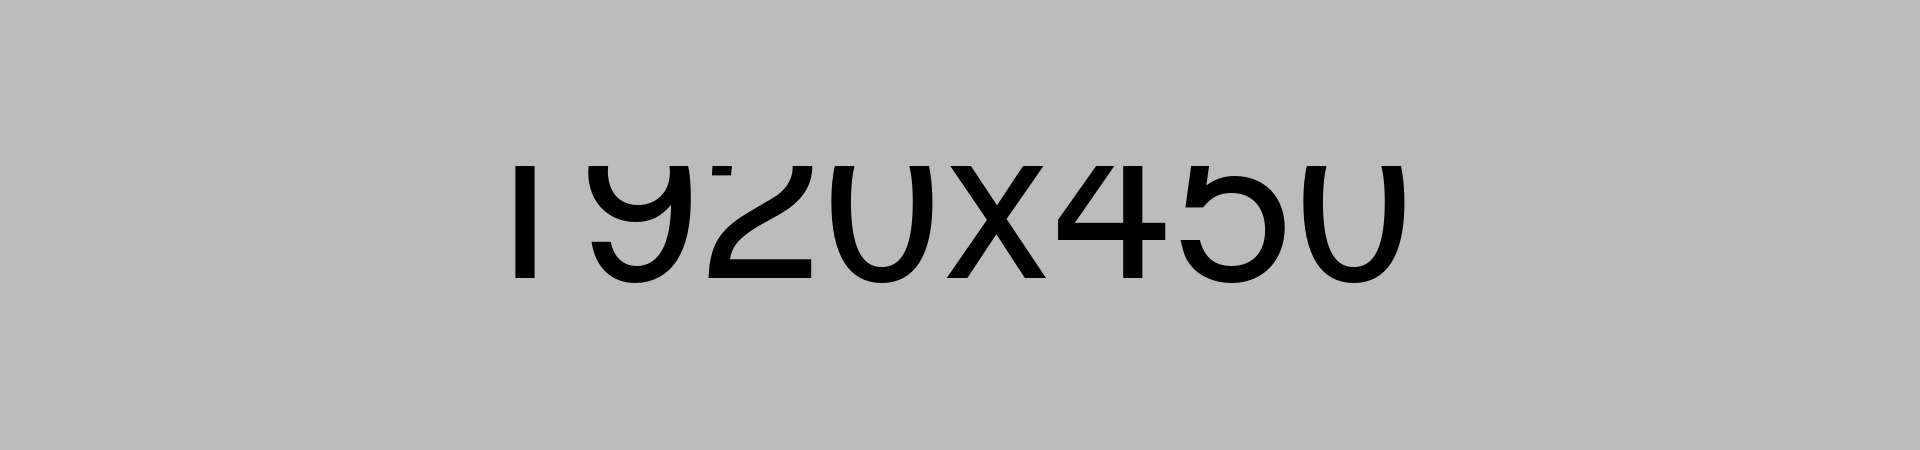
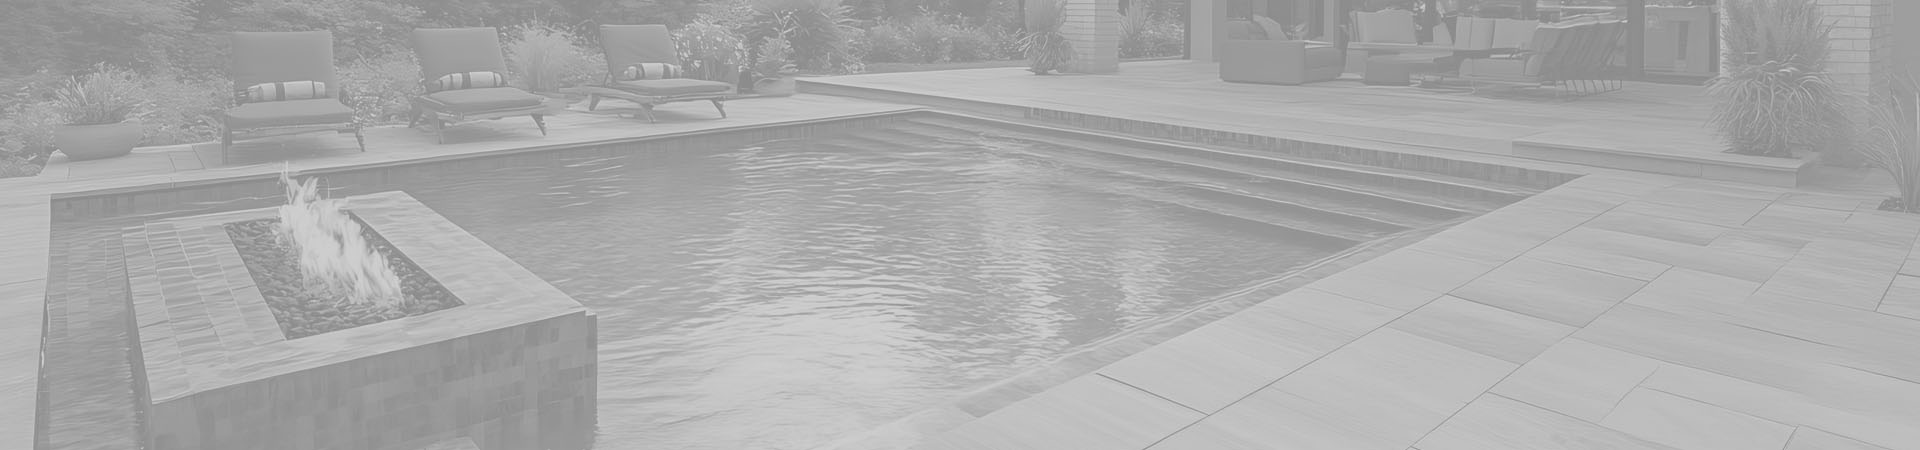
Titles

diff --git a/assets/css/style.css b/assets/css/style.css
@@ -4892,7 +4892,7 @@ div#mCSB_1_container{
   height: 100%;
   left: 0px;
   top: 0px;
-  background: linear-gradient(180deg, #000000 15.56%, rgba(0, 0, 0, 0) 100%);
+  background: linear-gradient(180deg, #fff 15.56%, rgba(0, 0, 0, 0) 100%);
 }
 
 .page-title .content-box h2{
@@ -4900,7 +4900,7 @@ div#mCSB_1_container{
   display: block;
   font-size: 60px;
   line-height: 70px;
-  color: #fff;
+  color: var(--brand-color);
   font-weight: 700;
   margin-bottom: 10px;
 }

diff --git a/events.php b/events.php
@@ -7,7 +7,7 @@
 <meta http-equiv="X-UA-Compatible" content="IE=edge">
 <meta name="viewport" content="width=device-width, initial-scale=1.0, maximum-scale=1.0, user-scalable=0">
 
-<title>Ticrou - HTML 5 Template Preview</title>
+<title>Event Types - <?= site_esc($site_name); ?></title>
 
 <!-- Fav Icon -->
 <link rel="icon" href="assets/images/favicon.ico" type="image/x-icon">
@@ -51,203 +51,41 @@
             <div class="bg-layer" style="background-image: url(assets/images/background/page-title.jpg);"></div>
             <div class="auto-container">
                 <div class="content-box">
-                    <h2>Our Team</h2>
-                    <ul class="bread-crumb clearfix">
-                        <li><a href="index.html">Home</a></li>
-                        <li>Our Team</li>
-                    </ul>
+                    <h2>Event Types</h2>
                 </div>
             </div>
         </section>
         <!-- End Page Title -->
 
 
-        <!-- team-section -->
+        <!-- event-section -->
         <section class="team-page-section p_relative">
+            
             <div class="auto-container">
                 <div class="inner-container wow fadeInUp animated" data-wow-delay="600ms" data-wow-duration="1500ms">
                     <div class="row clearfix">
-                        <div class="col-lg-3 col-md-6 col-sm-12 team-block">
-                            <div class="team-block-one">
-                                <div class="inner-box">
-                                    <div class="image-box">
-                                        <figure class="image"><img src="assets/images/team/team-1.jpg" alt=""></figure>
-                                        <div class="share-box p_absolute">
-                                            <a href="index.html" class="share-icon"><i class="icon-15"></i></a>
-                                            <ul class="share-links p_absolute clearfix">
-                                                <li><a href="index-3.html"><i class="fab fa-facebook-f"></i></a></li>
-                                                <li><a href="index-3.html"><i class="fab fa-twitter"></i></a></li>
-                                                <li><a href="index-3.html"><i class="fab fa-instagram"></i></a></li>
-                                            </ul>
+                        <?php foreach ($events as $event): ?>
+                            <div class="col-lg-3 col-md-6 col-sm-12 team-block">
+                                <div class="team-block-one">
+                                    <div class="inner-box">
+                                        <div class="image-box">
+                                            <figure class="image">
+                                                <img src="<?= site_esc($event['image'] ?? ''); ?>" alt="<?= site_esc($event['title'] ?? 'Event'); ?>">
+                                            </figure>
                                         </div>
-                                    </div>
-                                    <div class="lower-content">
-                                        <h3><a href="team-details.html">George Clooney</a></h3>
-                                        <span class="designation">Master Chef</span>
-                                        <p>Lorem ipsum dolor sit amet risus consectetur adipiscing elit cursus at molestie.</p>
+                                        <div class="lower-content">
+                                            <h3><a href="<?= site_esc($event['link'] ?? '#'); ?>"><?= site_esc($event['title'] ?? 'Event'); ?></a></h3>
+                                        </div>
                                     </div>
                                 </div>
                             </div>
-                        </div>
-                        <div class="col-lg-3 col-md-6 col-sm-12 team-block">
-                            <div class="team-block-one">
-                                <div class="inner-box">
-                                    <div class="image-box">
-                                        <figure class="image"><img src="assets/images/team/team-2.jpg" alt=""></figure>
-                                        <div class="share-box p_absolute">
-                                            <a href="index.html" class="share-icon"><i class="icon-15"></i></a>
-                                            <ul class="share-links p_absolute clearfix">
-                                                <li><a href="index-3.html"><i class="fab fa-facebook-f"></i></a></li>
-                                                <li><a href="index-3.html"><i class="fab fa-twitter"></i></a></li>
-                                                <li><a href="index-3.html"><i class="fab fa-instagram"></i></a></li>
-                                            </ul>
-                                        </div>
-                                    </div>
-                                    <div class="lower-content">
-                                        <h3><a href="team-details.html">Orlando Bloom</a></h3>
-                                        <span class="designation">Sous Chef</span>
-                                        <p>Lorem ipsum dolor sit amet risus consectetur adipiscing elit cursus at molestie.</p>
-                                    </div>
-                                </div>
-                            </div>
-                        </div>
-                        <div class="col-lg-3 col-md-6 col-sm-12 team-block">
-                            <div class="team-block-one">
-                                <div class="inner-box">
-                                    <div class="image-box">
-                                        <figure class="image"><img src="assets/images/team/team-3.jpg" alt=""></figure>
-                                        <div class="share-box p_absolute">
-                                            <a href="index.html" class="share-icon"><i class="icon-15"></i></a>
-                                            <ul class="share-links p_absolute clearfix">
-                                                <li><a href="index-3.html"><i class="fab fa-facebook-f"></i></a></li>
-                                                <li><a href="index-3.html"><i class="fab fa-twitter"></i></a></li>
-                                                <li><a href="index-3.html"><i class="fab fa-instagram"></i></a></li>
-                                            </ul>
-                                        </div>
-                                    </div>
-                                    <div class="lower-content">
-                                        <h3><a href="team-details.html">Brendan Fraser</a></h3>
-                                        <span class="designation">Seafood Chef</span>
-                                        <p>Lorem ipsum dolor sit amet risus consectetur adipiscing elit cursus at molestie.</p>
-                                    </div>
-                                </div>
-                            </div>
-                        </div>
-                        <div class="col-lg-3 col-md-6 col-sm-12 team-block">
-                            <div class="team-block-one">
-                                <div class="inner-box">
-                                    <div class="image-box">
-                                        <figure class="image"><img src="assets/images/team/team-4.jpg" alt=""></figure>
-                                        <div class="share-box p_absolute">
-                                            <a href="index.html" class="share-icon"><i class="icon-15"></i></a>
-                                            <ul class="share-links p_absolute clearfix">
-                                                <li><a href="index-3.html"><i class="fab fa-facebook-f"></i></a></li>
-                                                <li><a href="index-3.html"><i class="fab fa-twitter"></i></a></li>
-                                                <li><a href="index-3.html"><i class="fab fa-instagram"></i></a></li>
-                                            </ul>
-                                        </div>
-                                    </div>
-                                    <div class="lower-content">
-                                        <h3><a href="team-details.html">Martin Lawrence</a></h3>
-                                        <span class="designation">Chef</span>
-                                        <p>Lorem ipsum dolor sit amet risus consectetur adipiscing elit cursus at molestie.</p>
-                                    </div>
-                                </div>
-                            </div>
-                        </div>
-                        <div class="col-lg-3 col-md-6 col-sm-12 team-block">
-                            <div class="team-block-one">
-                                <div class="inner-box">
-                                    <div class="image-box">
-                                        <figure class="image"><img src="assets/images/team/team-5.jpg" alt=""></figure>
-                                        <div class="share-box p_absolute">
-                                            <a href="index.html" class="share-icon"><i class="icon-15"></i></a>
-                                            <ul class="share-links p_absolute clearfix">
-                                                <li><a href="index-3.html"><i class="fab fa-facebook-f"></i></a></li>
-                                                <li><a href="index-3.html"><i class="fab fa-twitter"></i></a></li>
-                                                <li><a href="index-3.html"><i class="fab fa-instagram"></i></a></li>
-                                            </ul>
-                                        </div>
-                                    </div>
-                                    <div class="lower-content">
-                                        <h3><a href="team-details.html">Robert Downey</a></h3>
-                                        <span class="designation">Master Chef</span>
-                                        <p>Lorem ipsum dolor sit amet risus consectetur adipiscing elit cursus at molestie.</p>
-                                    </div>
-                                </div>
-                            </div>
-                        </div>
-                        <div class="col-lg-3 col-md-6 col-sm-12 team-block">
-                            <div class="team-block-one">
-                                <div class="inner-box">
-                                    <div class="image-box">
-                                        <figure class="image"><img src="assets/images/team/team-6.jpg" alt=""></figure>
-                                        <div class="share-box p_absolute">
-                                            <a href="index.html" class="share-icon"><i class="icon-15"></i></a>
-                                            <ul class="share-links p_absolute clearfix">
-                                                <li><a href="index-3.html"><i class="fab fa-facebook-f"></i></a></li>
-                                                <li><a href="index-3.html"><i class="fab fa-twitter"></i></a></li>
-                                                <li><a href="index-3.html"><i class="fab fa-instagram"></i></a></li>
-                                            </ul>
-                                        </div>
-                                    </div>
-                                    <div class="lower-content">
-                                        <h3><a href="team-details.html">Tom Hardy</a></h3>
-                                        <span class="designation">Sous Chef</span>
-                                        <p>Lorem ipsum dolor sit amet risus consectetur adipiscing elit cursus at molestie.</p>
-                                    </div>
-                                </div>
-                            </div>
-                        </div>
-                        <div class="col-lg-3 col-md-6 col-sm-12 team-block">
-                            <div class="team-block-one">
-                                <div class="inner-box">
-                                    <div class="image-box">
-                                        <figure class="image"><img src="assets/images/team/team-7.jpg" alt=""></figure>
-                                        <div class="share-box p_absolute">
-                                            <a href="index.html" class="share-icon"><i class="icon-15"></i></a>
-                                            <ul class="share-links p_absolute clearfix">
-                                                <li><a href="index-3.html"><i class="fab fa-facebook-f"></i></a></li>
-                                                <li><a href="index-3.html"><i class="fab fa-twitter"></i></a></li>
-                                                <li><a href="index-3.html"><i class="fab fa-instagram"></i></a></li>
-                                            </ul>
-                                        </div>
-                                    </div>
-                                    <div class="lower-content">
-                                        <h3><a href="team-details.html">Ben Stiller</a></h3>
-                                        <span class="designation">Seafood Chef</span>
-                                        <p>Lorem ipsum dolor sit amet risus consectetur adipiscing elit cursus at molestie.</p>
-                                    </div>
-                                </div>
-                            </div>
-                        </div>
-                        <div class="col-lg-3 col-md-6 col-sm-12 team-block">
-                            <div class="team-block-one">
-                                <div class="inner-box">
-                                    <div class="image-box">
-                                        <figure class="image"><img src="assets/images/team/team-8.jpg" alt=""></figure>
-                                        <div class="share-box p_absolute">
-                                            <a href="index.html" class="share-icon"><i class="icon-15"></i></a>
-                                            <ul class="share-links p_absolute clearfix">
-                                                <li><a href="index-3.html"><i class="fab fa-facebook-f"></i></a></li>
-                                                <li><a href="index-3.html"><i class="fab fa-twitter"></i></a></li>
-                                                <li><a href="index-3.html"><i class="fab fa-instagram"></i></a></li>
-                                            </ul>
-                                        </div>
-                                    </div>
-                                    <div class="lower-content">
-                                        <h3><a href="team-details.html">Aaron Paul</a></h3>
-                                        <span class="designation">Chef</span>
-                                        <p>Lorem ipsum dolor sit amet risus consectetur adipiscing elit cursus at molestie.</p>
-                                    </div>
-                                </div>
-                            </div>
-                        </div>
+                        <?php endforeach; ?>
                     </div>
                 </div>
             </div>
+            
         </section>
-        <!-- team-section end -->
+        <!-- event-section end -->
 
 
     <?php include 'components/footer.php'; ?>

diff --git a/venue-features.php b/venue-features.php
@@ -7,7 +7,7 @@
 <meta http-equiv="X-UA-Compatible" content="IE=edge">
 <meta name="viewport" content="width=device-width, initial-scale=1.0, maximum-scale=1.0, user-scalable=0">
 
-<title>Ticrou - HTML 5 Template Preview</title>
+<title>Venue Features - <?= site_esc($site_name); ?></title>
 
 <!-- Fav Icon -->
 <link rel="icon" href="assets/images/favicon.ico" type="image/x-icon">
@@ -50,11 +50,7 @@
             <div class="bg-layer" style="background-image: url(assets/images/background/page-title.jpg);"></div>
             <div class="auto-container">
                 <div class="content-box">
-                    <h2>Our Menu</h2>
-                    <ul class="bread-crumb clearfix">
-                        <li><a href="index.html">Home</a></li>
-                        <li>Our Menu</li>
-                    </ul>
+                    <h2>Venue Features</h2>
                 </div>
             </div>
         </section>

diff --git a/services.php b/services.php
@@ -7,7 +7,7 @@
 <meta http-equiv="X-UA-Compatible" content="IE=edge">
 <meta name="viewport" content="width=device-width, initial-scale=1.0, maximum-scale=1.0, user-scalable=0">
 
-<title>Ticrou - HTML 5 Template Preview</title>
+<title>Service - <?= site_esc($site_name); ?></title>
 
 <!-- Fav Icon -->
 <link rel="icon" href="assets/images/favicon.ico" type="image/x-icon">
@@ -53,11 +53,7 @@
             <div class="bg-layer" style="background-image: url(assets/images/background/page-title.jpg);"></div>
             <div class="auto-container">
                 <div class="content-box">
-                    <h2>Testimonials</h2>
-                    <ul class="bread-crumb clearfix">
-                        <li><a href="index.html">Home</a></li>
-                        <li>Testimonials</li>
-                    </ul>
+                    <h2>Services</h2>
                 </div>
             </div>
         </section>

diff --git a/gallery.php b/gallery.php
@@ -7,7 +7,7 @@
 <meta http-equiv="X-UA-Compatible" content="IE=edge">
 <meta name="viewport" content="width=device-width, initial-scale=1.0, maximum-scale=1.0, user-scalable=0">
 
-<title>Ticrou - HTML 5 Template Preview</title>
+<title>Gallery - <?= site_esc($site_name); ?></title>
 
 <!-- Fav Icon -->
 <link rel="icon" href="assets/images/favicon.ico" type="image/x-icon">
@@ -51,11 +51,7 @@
             <div class="bg-layer" style="background-image: url(assets/images/background/page-title.jpg);"></div>
             <div class="auto-container">
                 <div class="content-box">
-                    <h2>Gallery 1</h2>
-                    <ul class="bread-crumb clearfix">
-                        <li><a href="index.html">Home</a></li>
-                        <li>Gallery 1</li>
-                    </ul>
+                    <h2>Gallery </h2>
                 </div>
             </div>
         </section>

diff --git a/contact.php b/contact.php
@@ -7,7 +7,7 @@
 <meta http-equiv="X-UA-Compatible" content="IE=edge">
 <meta name="viewport" content="width=device-width, initial-scale=1.0, maximum-scale=1.0, user-scalable=0">
 
-<title>Ticrou - HTML 5 Template Preview</title>
+<title>Contact Us - <?= site_esc($site_name); ?></title>
 
 <!-- Fav Icon -->
 <link rel="icon" href="assets/images/favicon.ico" type="image/x-icon">
@@ -51,10 +51,6 @@
             <div class="auto-container">
                 <div class="content-box">
                     <h2>Contact Us</h2>
-                    <ul class="bread-crumb clearfix">
-                        <li><a href="index.html">Home</a></li>
-                        <li>Contact Us</li>
-                    </ul>
                 </div>
             </div>
         </section>

diff --git a/about.php b/about.php
@@ -7,7 +7,7 @@
 <meta http-equiv="X-UA-Compatible" content="IE=edge">
 <meta name="viewport" content="width=device-width, initial-scale=1.0, maximum-scale=1.0, user-scalable=0">
 
-<title>Ticrou - HTML 5 Template Preview</title>
+<title>About Us - <?= site_esc($site_name); ?></title>
 
 <!-- Fav Icon -->
 <link rel="icon" href="assets/images/favicon.ico" type="image/x-icon">
@@ -51,10 +51,6 @@
             <div class="auto-container">
                 <div class="content-box">
                     <h2>About Us</h2>
-                    <ul class="bread-crumb clearfix">
-                        <li><a href="index.html">Home</a></li>
-                        <li>About Us</li>
-                    </ul>
                 </div>
             </div>
         </section>

diff --git a/index.php b/index.php
@@ -7,7 +7,7 @@
 <meta http-equiv="X-UA-Compatible" content="IE=edge">
 <meta name="viewport" content="width=device-width, initial-scale=1.0, maximum-scale=1.0, user-scalable=0">
 
-<title>zxTicrou - HTML 5 Template Preview</title>
+<title>Welcome to <?= site_esc($site_name); ?></title>
 
 <!-- Fav Icon -->
 <link rel="icon" href="assets/images/favicon.ico" type="image/x-icon">
